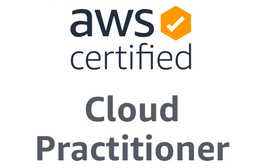
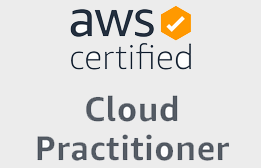
minor hexagon bg color fix

diff --git a/src/index.css b/src/index.css
@@ -690,7 +690,6 @@ body a:hover {
   background-image: url("./images/hg_logo.png");
   background-position: 95% 100%;
   background-repeat: no-repeat;
-  background-blend-mode: lighten;
 }
 #qualification .holmesglen p {
   width: 75%;
@@ -718,6 +717,7 @@ body a:hover {
   background-position: 100% 90%;
   background-repeat: no-repeat;
   background-size: 28%;
+  background-blend-mode: exclusion;
 }
 #qualification .sisu p {
   width: 75%;
@@ -767,7 +767,7 @@ body a:hover {
   position: relative;
   height: 3rem;
   padding: 0 1rem;
-  border: 2px solid #254a5d;
+  border: 2px solid #3795bd;
   background: #ECECEC;
   user-select: none;
   white-space: nowrap;
@@ -988,7 +988,7 @@ body a:hover {
   position: relative;
   height: 3rem;
   padding: 0 1rem;
-  border: 2px solid #254a5d;
+  border: 2px solid #3795bd;
   background: #ECECEC;
   user-select: none;
   white-space: nowrap;

diff --git a/src/scss/components/_qualification.scss b/src/scss/components/_qualification.scss
@@ -21,7 +21,7 @@
   background-image: url("./images/hg_logo.png");
    background-position:95% 100%;
   background-repeat: no-repeat;
-   background-blend-mode:lighten;
+  //  background-blend-mode:lighten;
 p{
   width: 75%;
 }
@@ -43,7 +43,7 @@ p{
   background-position:95% 100%;
   background-repeat: no-repeat;
   background-size: 20%;
-    // background-blend-mode:overlay;
+  
 p{
   width: 75%;
 }
@@ -54,7 +54,7 @@ p{
   background-position:100% 90%;
   background-repeat: no-repeat;
   background-size: 28%;
-  // background-blend-mode:exclusion;
+  background-blend-mode:exclusion;
 p{
   width: 75%;
 }

diff --git a/src/scss/abstracts/_variables.scss b/src/scss/abstracts/_variables.scss
@@ -82,7 +82,7 @@ $margin-y-title-content: 6vh;
     position: relative;
     height: 3rem;
     padding: 0 1rem;
-    border: 2px solid $primaryColor;
+    border: 2px solid $primaryColor2;
     background: $whiteColor;
     user-select: none;
     white-space: nowrap;
